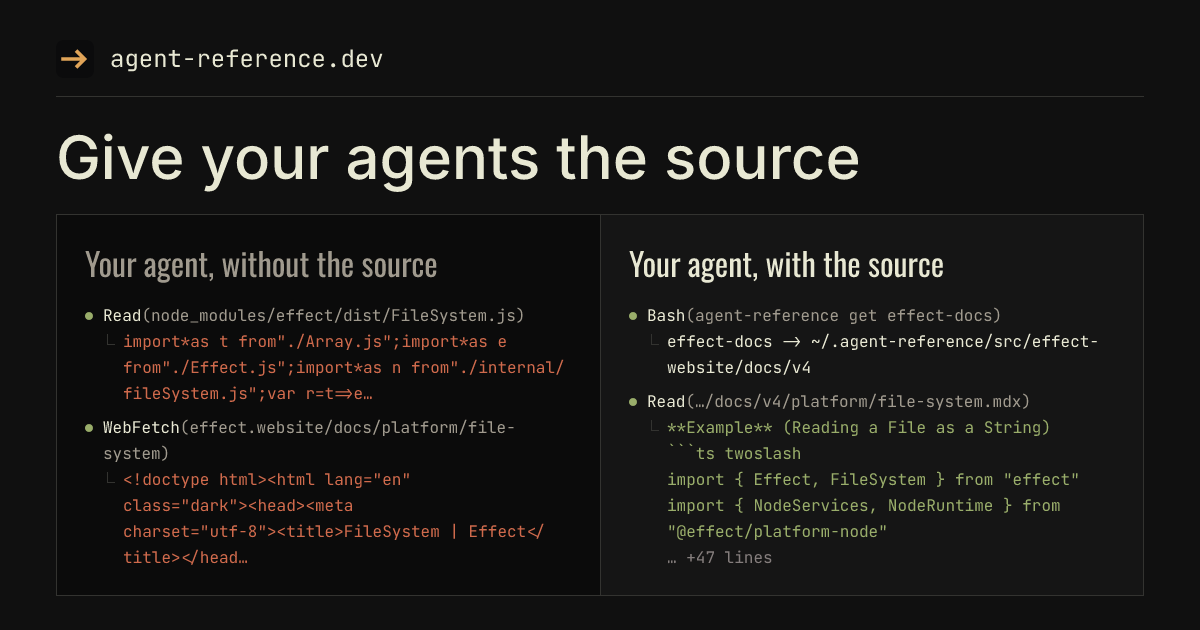
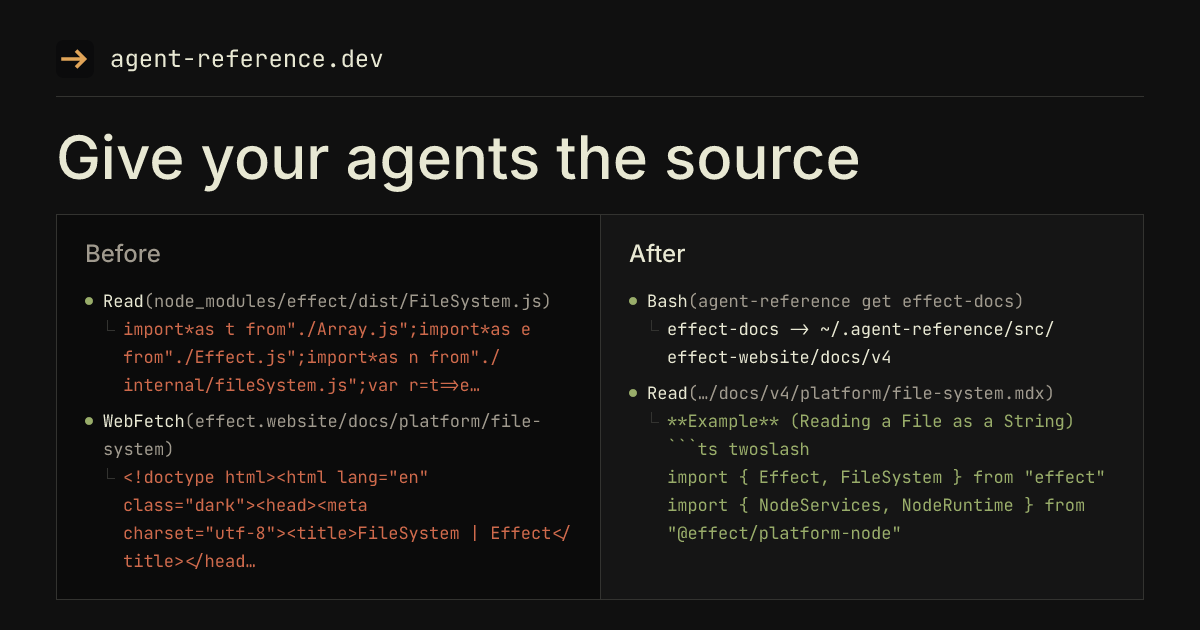
site: head the social card's panes Before and After
A feed is read faster than a page, so the panes take one word each in the body face rather than the page's headings in the display face, which the card no longer loads. The fold under a cut result is dropped rather than recounted, since a count is a thing to read, and the pane type steps up a size with the room that leaves. The alt text follows the headings.

diff --git a/site/og.ts b/site/og.ts
@@ -54,9 +54,9 @@ const esc = (text: string) =>
 
 /**
  * The first screen, cut to what a card can hold: the last two calls of each
- * transcript, a result that is one long line cut to `chars` characters, and a
- * result that is a list of lines cut to `lines` of them, with the fold under
- * it recounted for what was dropped so it stays true of the file.
+ * transcript, each result to `lines` lines and each line to `chars`
+ * characters. The fold the page closes a long result on is dropped rather than
+ * recounted: a card is glanced at, and a count is a thing to read.
  */
 function excerpt(transcript: string, { chars, lines }: { chars: number; lines: number }) {
   return transcript
@@ -64,24 +64,18 @@ function excerpt(transcript: string, { chars, lines }: { chars: number; lines: n
     .slice(-2)
     .map((read) => {
       const [call = '', ...result] = read.split('\n');
-      if (result.length === 1) {
-        const [only = ''] = result;
-        return { call, result: [only.length > chars ? `${only.slice(0, chars)}…` : only] };
-      }
-      const fold = /^(\s+)… \+(\d+) lines$/u.exec(result.at(-1) ?? '');
-      const body = fold ? result.slice(0, -1) : result;
-      const kept = body.slice(0, lines);
-      if (!fold || kept.length === body.length) return { call, result: kept };
-      const [, indent, more] = fold;
       return {
         call,
-        result: [...kept, `${indent}… +${Number(more) + body.length - kept.length} lines`],
+        result: result
+          .filter((line) => !/^\s+… \+\d+ lines$/u.test(line))
+          .slice(0, lines)
+          .map((line) => (line.length > chars ? `${line.slice(0, chars)}…` : line)),
       };
     });
 }
 
 /** The type size the panes are set in, and the leading each line takes. */
-const TYPE = { size: 16, line: 26 };
+const TYPE = { size: 17, line: 28 };
 
 /** The dot a call carries, as a shape: no webfont subset carries the glyph. */
 const dot = `<div style="width:8px;height:8px;border-radius:4px;background:${c.ok};margin:${(TYPE.line - 8) / 2}px 10px 0 0;flex-shrink:0"></div>`;
@@ -104,8 +98,7 @@ function callLine(call: string): string {
 function resultLine(text: string, first: boolean): string {
   const match = /^(\s+)(⎿ )?([!+] )?(.*)$/u.exec(text);
   const [, , , marker, rest = text] = match ?? [];
-  const tone =
-    marker === '! ' ? c.bad : marker === '+ ' ? c.ok : /^… \+\d+ lines$/u.test(rest) ? c.dim : c.fg;
+  const tone = marker === '! ' ? c.bad : marker === '+ ' ? c.ok : c.fg;
   const lead = first ? elbow : `<div style="width:38px;flex-shrink:0"></div>`;
   return `<div style="display:flex">${lead}<div style="color:${tone};${WRAP}">${esc(rest)}</div></div>`;
 }
@@ -119,15 +112,17 @@ function pane(heading: string, transcript: string, ground: string, ink: string):
     )
     .join('');
   return `<div style="display:flex;flex-direction:column;flex:1;padding:24px 28px;background:${ground};overflow:hidden">
-    <div style="font-family:'Oswald';font-size:32px;color:${ink};margin-bottom:8px">${esc(heading)}</div>
+    <div style="font-size:24px;font-weight:500;color:${ink};margin-bottom:10px">${esc(heading)}</div>
     <div style="display:flex;flex-direction:column;font-family:'JetBrains Mono';font-size:${TYPE.size}px;line-height:${TYPE.line}px">${body}</div>
   </div>`;
 }
 
-// A thumbnail-sized comparison uses the site's headings, palette, and typefaces,
-// and shows the first screen as it is on the page: the same two transcripts,
-// drawn as the tool calls they are, cut to the last two calls a side and a few
-// lines of what each got back. At the size a link preview is actually read,
+// A thumbnail-sized comparison in the site's palette and typefaces, showing the
+// first screen as it is on the page: the same two transcripts, drawn as the
+// tool calls they are, cut to the last two calls a side and a few lines of what
+// each got back. The panes are headed Before and After rather than with the
+// page's headings: a feed is read faster than a page, and one word each is
+// what that reading has room for. At the size a link preview is actually read,
 // red markup against green markdown is two different shapes before it is two
 // different meanings, and nothing has to be read for the point to land. The
 // tagline sits close above the panes so the panes get the height.
@@ -148,9 +143,9 @@ const card = `<div style="
   <div style="display:flex;font-size:60px;font-weight:500;line-height:1.15;margin:26px 0 22px">${esc(copy.tagline)}</div>
 
   <div style="display:flex;flex:1;border:1px solid ${c.line}">
-    ${pane(copy.hero.before, terminals.today, c.term, c.muted)}
+    ${pane('Before', terminals.today, c.term, c.muted)}
     <div style="width:1px;background:${c.line}"></div>
-    ${pane(copy.hero.after, terminals.after, c.panel, c.fg)}
+    ${pane('After', terminals.after, c.panel, c.fg)}
   </div>
 </div>`;
 
@@ -158,7 +153,6 @@ const fonts = await googleFonts([
   { name: 'Inter', weight: 400 },
   { name: 'Inter', weight: 500 },
   { name: 'JetBrains Mono', weight: 400 },
-  { name: 'Oswald', weight: 400 },
 ]);
 
 writeFileSync(new URL('og.png', PUBLIC), await render(card, { width: 1200, height: 630, fonts }));

diff --git a/site/src/routes/__root.tsx b/site/src/routes/__root.tsx
@@ -22,7 +22,7 @@ const HEADLINE = `${TITLE} \u00B7 ${TAGLINE}`;
  * crawler has cached.
  */
 const CARD = `${SITE}/og.png?v=${__CARD_VERSION__}`;
-const CARD_ALT = `${TAGLINE}. ${copy.hero.before}: the markup a docs site hands a fetch. ${copy.hero.after}: the same page read out of its repository, as its author wrote it.`;
+const CARD_ALT = `${TAGLINE}. Before: an agent fetching a docs page and getting markup. After: the same agent reading that page out of its repository, as its author wrote it.`;
 
 export const Route = createRootRoute({
   head: () => ({
